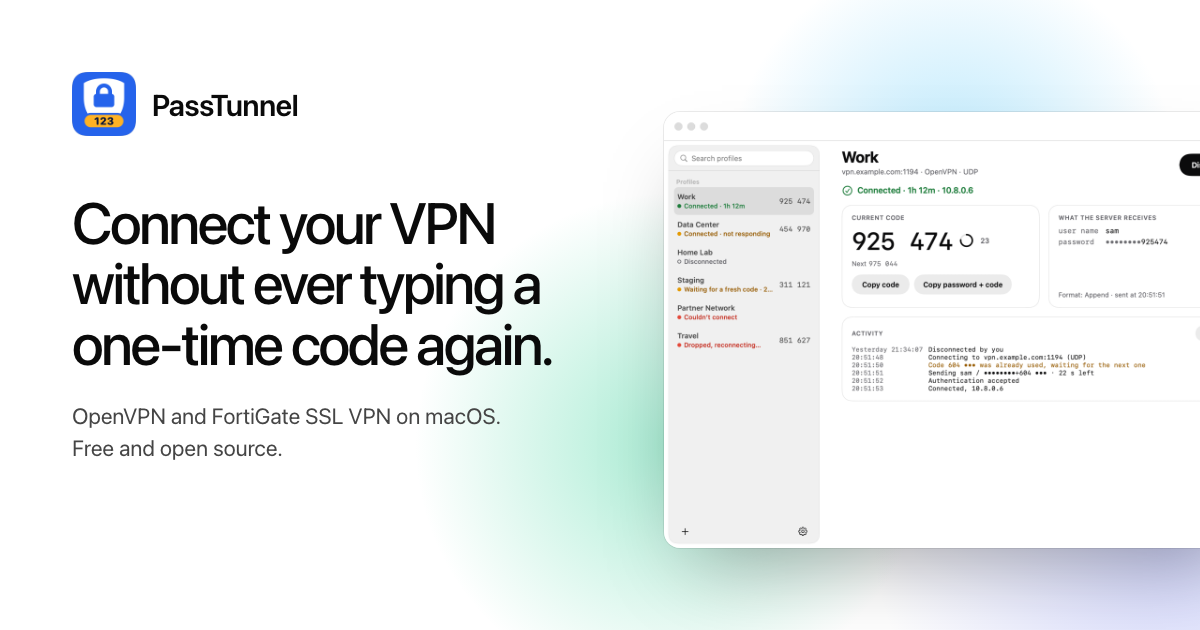
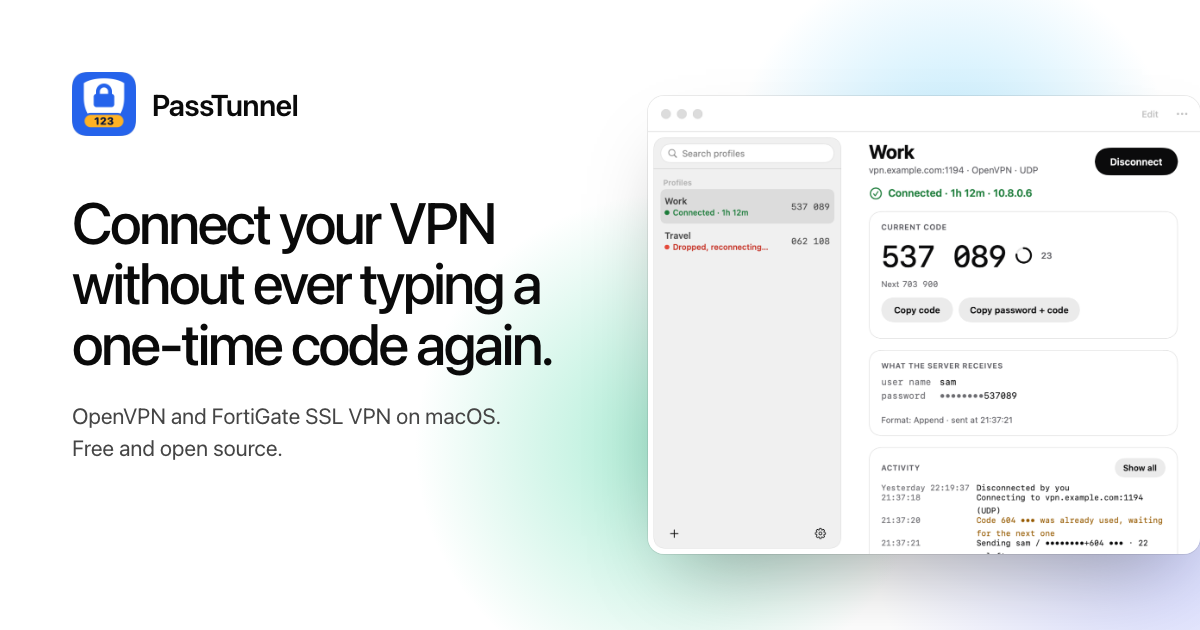
fix: Turkish renders and a readable hero screenshot (#161)

diff --git a/site/index.html b/site/index.html
@@ -162,8 +162,8 @@
       </figure>
 
       <figure class="hero-shot">
-        <img class="shot shot-window only-light" src="assets/img/main-light.webp" srcset="assets/img/main-light.webp 640w, assets/img/main-light@1.5x.webp 960w, assets/img/main-light@2x.webp 1280w" sizes="(max-width: 479.98px) calc(92vw - 26px), (max-width: 764px) calc(84vw - 2px), (max-width: 979.98px) 640px, (max-width: 1320px) calc(88vw - 520px), 640px" width="640" height="465" loading="lazy" decoding="async" alt="The PassTunnel main window: a sidebar with six VPN profiles, each with its state and live one-time code, and the selected profile, Work, connected, with its large current code, a countdown ring, Copy buttons, what the server receives and its activity log.">
-        <img class="shot shot-window only-dark" src="assets/img/main-dark.webp" srcset="assets/img/main-dark.webp 640w, assets/img/main-dark@1.5x.webp 960w, assets/img/main-dark@2x.webp 1280w" sizes="(max-width: 479.98px) calc(92vw - 26px), (max-width: 764px) calc(84vw - 2px), (max-width: 979.98px) 640px, (max-width: 1320px) calc(88vw - 520px), 640px" width="640" height="465" loading="lazy" decoding="async" alt="The PassTunnel main window: a sidebar with six VPN profiles, each with its state and live one-time code, and the selected profile, Work, connected, with its large current code, a countdown ring, Copy buttons, what the server receives and its activity log.">
+        <img class="shot shot-window only-light" src="assets/img/hero-light.webp" srcset="assets/img/hero-light.webp 640w, assets/img/hero-light@1.5x.webp 960w, assets/img/hero-light@2x.webp 1280w" sizes="(max-width: 479.98px) calc(92vw - 26px), (max-width: 764px) calc(84vw - 2px), (max-width: 979.98px) 640px, (max-width: 1320px) calc(88vw - 520px), 640px" width="640" height="532" loading="lazy" decoding="async" alt="The PassTunnel main window: a sidebar with two VPN profiles, each with its state and live one-time code, and the selected profile, Work, connected, with its large current code, a countdown ring, Copy buttons, what the server receives and its activity log.">
+        <img class="shot shot-window only-dark" src="assets/img/hero-dark.webp" srcset="assets/img/hero-dark.webp 640w, assets/img/hero-dark@1.5x.webp 960w, assets/img/hero-dark@2x.webp 1280w" sizes="(max-width: 479.98px) calc(92vw - 26px), (max-width: 764px) calc(84vw - 2px), (max-width: 979.98px) 640px, (max-width: 1320px) calc(88vw - 520px), 640px" width="640" height="532" loading="lazy" decoding="async" alt="The PassTunnel main window: a sidebar with two VPN profiles, each with its state and live one-time code, and the selected profile, Work, connected, with its large current code, a countdown ring, Copy buttons, what the server receives and its activity log.">
       </figure>
     </div>
   </div>

diff --git a/Sources/PassTunnel/main.swift b/Sources/PassTunnel/main.swift
@@ -27,6 +27,18 @@ if let dir = ProcessInfo.processInfo.environment["PASSTUNNEL_RENDER"], !dir.isEm
     // bundle picks the localization before any string is looked up (nothing is written to defaults).
     if let lang = ProcessInfo.processInfo.environment["PASSTUNNEL_RENDER_LANG"], !lang.isEmpty,
        !CommandLine.arguments.contains("-AppleLanguages"), let executable = Bundle.main.executablePath {
+        // An unbundled build (`swift build`) has no compiled `<lang>.lproj`: its catalog sits uncompiled in the
+        // resource bundle, so every lookup would silently fall back to English.
+        let base = lang.split(whereSeparator: { "-_".contains($0) }).first.map(String.init) ?? lang
+        if Bundle.main.url(forResource: "Localizable", withExtension: "strings", subdirectory: nil, localization: base) == nil {
+            FileHandle.standardError.write(Data(("""
+                render: no compiled \(base) strings in \(Bundle.main.bundlePath); the render would be in English.
+                Render from the app (scripts/build-app.sh), or compile the catalog next to the binary:
+                xcrun xcstringstool compile Sources/PassTunnel/Resources/Localizable.xcstrings --output-directory "$(dirname \(executable))"
+
+                """).utf8))
+            exit(1)
+        }
         let argv = [executable] + CommandLine.arguments.dropFirst() + ["-AppleLanguages", "(\(lang))"]
         var cArgs = argv.map { strdup($0) } + [nil]
         execv(executable, &cArgs)

diff --git a/Sources/PassTunnel/App/RenderSnapshots.swift b/Sources/PassTunnel/App/RenderSnapshots.swift
@@ -197,6 +197,23 @@ enum RenderSnapshots {
                 snapshot(MenuBarPanelPreview(now: now).environmentObject(panel), size: nil, dark: dark, to: out,
                          name: "menubar-panel")
             }
+
+            // The website's hero (`main-split-hero`): a narrower window with two tunnels, Work (connected) selected,
+            // so the text stays readable at the size the page shows it. Needs the profiles deleted above.
+            try store.delete(staging)
+            model.reload()
+            model.previewStates = sample.states(now).filter { $0.key == work }
+            model.previewErrors = [:]
+            model.previewUnreachable = []
+            model.setPreviewDropped([travel])
+            model.previewReconnecting = [travel: ReconnectInfo(attempt: 1, maxAttempts: 3, at: now)]
+            model.previewActivity = sampleActivity(sample.ids, now: now, waitingNow: now)
+            model.selection = work
+            model.previewNow = now
+            for dark in [false, true] {
+                snapshot(SplitWindowRender().environmentObject(model), size: CGSize(width: 800, height: 580), dark: dark,
+                         to: out, name: "main-split-hero", window: true)
+            }
         } catch {
             FileHandle.standardError.write(Data("render failed: \(error.localizedDescription)\n".utf8))
             return 1

diff --git a/scripts/site/og.html b/scripts/site/og.html
@@ -27,7 +27,7 @@
   h1 { margin-top: 56px; font-size: 58px; line-height: 1.04; font-weight: 500; letter-spacing: -0.045em; }
   p { margin-top: 28px; font-size: 22px; line-height: 1.45; color: #454545; }
   .shot {
-    position: absolute; left: 664px; top: 112px; width: 600px; height: auto;
+    position: absolute; left: 648px; top: 96px; width: 552px; height: auto;
     border-radius: 16px;
     box-shadow: 0 0 0 1px rgba(0, 0, 0, 0.08), 0 40px 80px -30px rgba(0, 0, 0, 0.35);
   }
@@ -40,6 +40,6 @@
     <h1>Connect your VPN without ever typing a one-time code again.</h1>
     <p>OpenVPN and FortiGate SSL VPN on macOS.<br>Free and open source.</p>
   </div>
-  <img class="shot" src="../../site/assets/img/main-light@2x.webp" alt="">
+  <img class="shot" src="../../site/assets/img/hero-light@2x.webp" alt="">
 </body>
 </html>

diff --git a/docs/APP.md b/docs/APP.md
@@ -817,7 +817,8 @@ client errors) must have Turkish translations.
 - SwiftPM does not sync the catalog: add new keys by hand. `LocalizationTests` fails when a localized
   literal in the sources is missing from the catalog, lacks a Turkish value, or changes placeholders.
 - `PASSTUNNEL_RENDER_LANG=tr` renders the `PASSTUNNEL_RENDER` screenshots in Turkish (from a bundle
-  with the compiled `tr.lproj`, e.g. the app `build-app.sh` makes). Renders include `main-split-locked`
+  with the compiled `tr.lproj`, e.g. the app `build-app.sh` makes; an unbundled `swift build` binary has none,
+  so the render stops with the `xcstringstool compile … --output-directory <bin dir>` command that adds them). Renders include `main-split-locked`
   (`AppModel.previewLockedCodes`; no Secure Enclave key is made), `main-split-hidden` ("Hide codes until clicked"),
   `settings-general` (the whole page), `editor/editor-require-auth`, `editor/editor-connect-at-login` (with the footnote of an app that does not
   open at login), `editor/editor-scan-screen` and `editor-scan-screen-none` (macOS 14 and later) and the menu bar

diff --git a/docs/WEBSITE.md b/docs/WEBSITE.md
@@ -164,7 +164,7 @@ scripts/site-assets.sh          # builds the app, renders, converts to WebP, wri
 ```
 
 The script runs `PASSTUNNEL_RENDER=<tmp> .build/…/PassTunnel`, picks the screens the site uses
-(the split main window `main-split` light/dark at identical sizes, the profile editor sheet, the
+(the hero, the narrow split main window `main-split-hero` (800 pt, two tunnels) light/dark at identical sizes, also used for `og.png`; the wide `main-split` only for the README, the profile editor sheet, the
 menu bar panel `menubar-panel`, General settings without its version line, the `first-run` view),
 writes the screenshots as 1x, 1.5x and 2x near-lossless WebP and the icons as 1x and 2x lossless WebP,
 the 2x screenshots the README shows as PNG in `docs/images/`,
